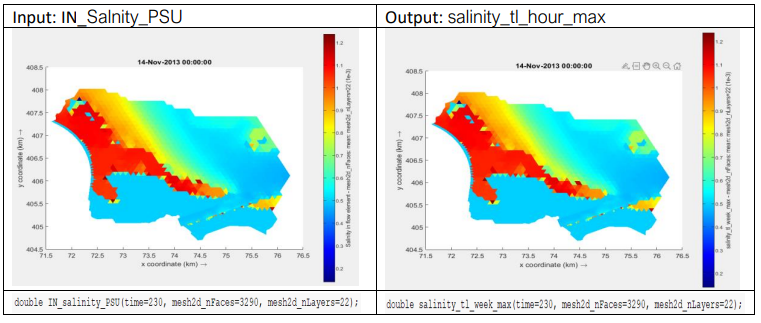
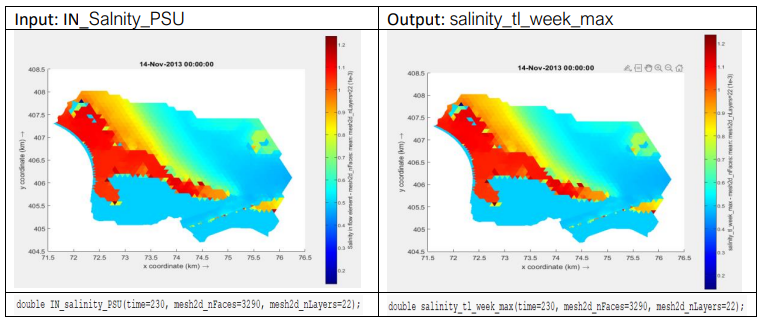
Small grammar and image corrections
Small grammar and image corrections

diff --git a/docs/manual/input.md b/docs/manual/input.md
@@ -1,6 +1,6 @@
 # Structure of the model input file and functionality
 
-D-Eco Impact is steered through a YAML input file. This input file informs the model which data to use , what ecological knowledge rules to apply and where to write the output data. 
+D-Eco Impact is steered through a YAML input file. This input file informs the model which data to use, what ecological knowledge rules to apply and where to write the output data. 
 The easiest way to edit these YAML files is by using [Notepad++](https://notepad-plus-plus.org/downloads/). When starting with your first application with D-Eco Impact, make use of earlier models to setup your YAML input file and edit from there. When running the YAML file with D-Eco Impact, the model will inform you if there are inconsistencies in the file provided. 
 
 ## Importing and exporting data
@@ -42,7 +42,7 @@ output-data:
 ```
 
 ```
-#EXAMPLE  : Reading and writing a example model of the Volkerak-Zoommeer
+#EXAMPLE  : Reading and writing an example model of the Volkerak-Zoommeer
 version: 0.1.5
 
 # Mapping: mesh2d_sa1              : Salinity (PSU)
@@ -85,7 +85,7 @@ output-data:
 
 ```
 
-The output of the following functionalities have been shown for a section of the Lake Volkerak 3D hydrodynamic model in the Netherlands. This hydrodynamic model output contains 6 years of data (2011 – 2016), with a timestep of 10 days. The 3D hydrodynamic model has been setup with 22 vertical layers and 3290 horizontal flexible mesh grid cells.
+The output of the following functionalities has been shown for a section of the Lake Volkerak 3D hydrodynamic model in the Netherlands. This hydrodynamic model output contains 6 years of data (2011 – 2016), with a timestep of 10 days. The 3D hydrodynamic model has been setup with 22 vertical layers and 3290 horizontal flexible mesh grid cells.
 
 
 ![Volkerak](../assets/images/3_volkerak_result.png "Spatial location of the Lake Volkerak hydrodynamic model output that has been used to show the effect of each function.")
@@ -113,12 +113,12 @@ The output of the following functionalities have been shown for a section of the
       output_variable: <one_output_variable_name>
 ```
 
-The multiply rule allows for multiplication of variables. This could be used for unit transformation (e.g. salinity to chloride) or scenario creation (e.g. waterlevel 80% of existing value). The rule operates on all cells both 3D (in horizontal as vertical) as in the time axes. The same dimensions are returned at the output variable. The rule needs to be applied to an existing variable. A new variable is created when the rule is executed.
+The multiply rule allows for multiplication of variables. This could be used for unit transformation (e.g., salinity to chloride) or scenario creation (e.g., water level 80% of existing value). The rule operates on all cells both 3D (in horizontal as vertical) as in the time axes. The same dimensions are returned at the output variable. The rule needs to be applied to an existing variable. A new variable is created when the rule is executed.
 
 When using the multiply rule with a start and end date (or multiple start and end dates) all periods that are not covered will be set to NaN. In this way the multiply rule can also be used as a filter in time. NaNs are ignored by any further calculations (for example the time_aggregation_rule).
 
 ```
-#EXAMPLE  : Salinity (psu) to chloride (mg/l) in an freshwater environment.
+#EXAMPLE: Salinity (psu) to chloride (mg/l) in a freshwater environment.
 - multiply_rule:
       name: Salinity to chloride
       description: Converts salinity (psu) to chloride (CL- mg/l) for fresh water environments
@@ -153,7 +153,7 @@ FORMAT
 
 ```
 
-The layer filter rule allows for the extraction of a layer from 3D variables. This could be used for extracting the top layer or bottom layer (e.g. from a mutli layered model result). The rule operates on all layers in a 3D variable (in the vertical) as in the time axes and returns a 2D result with the time axes intact. The rule needs to be applied to an existing 3D variable. A new 2D variable is created when the rule is executed.
+The layer filter rule allows for the extraction of a layer from 3D variables. This could be used for extracting the top layer or bottom layer (e.g., from a multi layered model result). The rule operates on all layers in a 3D variable (in the vertical) as in the time axes and returns a 2D result with the time axes intact. The rule needs to be applied to an existing 3D variable. A new 2D variable is created when the rule is executed.
 
 ```
 #EXAMPLE  : Extracts the chloride concentration at surface.
@@ -182,15 +182,15 @@ FORMAT
       output_variable: <one_output_variable_name>
 ```
 
-The time aggregation rule rule allows for calculating a statistical summary over the time axes of 3D and 2D variables. This could be used for calculating the maximum value over a year (e.g. for water level) or the minimum value over a month (e.g. oxygen concentration). The rule operates both on  3D variables and 2D variables as long as they have a time axes and returns a 3D or 2D result depending on input with the statistic calculated for a new time axis (e.g, year or month). 
-Operations available: Add, Average, Median, Min, Max, period statistics, Stdev and Percentile(n). When using percentile, add a number for the nth percentile with brackets like this: percentile(10). Stdev calculates the standard- deviation over te time period. Under period statistics are explained further in the text.
+The time aggregation rule allows for calculating a statistical summary over the time axes of 3D and 2D variables. This could be used for calculating the maximum value over a year (e.g., for water level) or the minimum value over a month (e.g., oxygen concentration). The rule operates both on 3D variables and 2D variables as long as they have a time axis and returns a 3D or 2D result depending on input with the statistic calculated for a new time axis (e.g., year or month). 
+Operations available: Add, Average, Median, Min, Max, period statistics, Stdev and Percentile(n). When using percentile, add a number for the nth percentile with brackets like this: percentile(10). Stdev calculates the standard- deviation over the time period. Under period statistics are explained further in the text.
 
 Time aggregation available: Year, Month
 
 The rule needs to be applied to an existing 2D/3D variable with time axis. A new 2D/3D variable with new time axis is created when the rule is executed. With a year timestep the result is written to the last day of the year, with a month timestep the result is written to the last day of the month per year.
 
 ```
-#EXAMPLE  : Calculate the maximum waterlevel in a year.
+#EXAMPLE  : Calculate the maximum water level in a year.
   - time_aggregation_rule:
       name: Maximum water level year
       description: Get maximum water level in a year
@@ -204,14 +204,14 @@ The rule needs to be applied to an existing 2D/3D variable with time axis. A new
 
 Period statistics: Time aggregation rule with COUNT_PERIODS, AVG_DURATION_PERIODS, MIN_DURATION_PERIODS and MAX_DURATION_PERIODS
 
-When the operation type period statistics is used, the user needs to make sure that the input data is always consisting of only 1 and 0. If there is no such layer, the user can make a combination of for example the classification rule together with the time aggregation rule. For example, waterdepth can be used to check whether the cells are dry or not (this can be done with a classification rule) and with the COUNT_PERIODS operation type in the time aggregation rule the amount of consecutive periods within a year or month can be calculated (nr). AVG_DURATION_PERIODS, MIN_DURATION_PERIODS and MAX_DURATION_PERIODS take the respective statistic of the duration for those consecutive periods (duration).
+When the operation type period statistics is used, the user needs to make sure that the input data is always consisting of only 1 and 0. If there is no such layer, the user can make a combination of for example the classification rule together with the time aggregation rule. For example, water depth can be used to check whether the cells are dry or not (this can be done with a classification rule) and with the COUNT_PERIODS operation type in the time aggregation rule the number of consecutive periods within a year or month can be calculated (nr). AVG_DURATION_PERIODS, MIN_DURATION_PERIODS and MAX_DURATION_PERIODS take the respective statistic of the duration for those consecutive periods (duration).
 
 
 
 ```
 #EXAMPLE:
 
-Calculate the amount of periods of dry time monthly
+Calculate the number of consecutive periods of dry time monthly
     - classification_rule:
         name: Classify dry time
         description: Classify to 0 and 1 the dry time
@@ -247,7 +247,7 @@ FORMAT
       output_variable: <one_output_variable_name>
 ```
 
-The step function rule performs stepwise classification on the provided values of 3D and 2D variables time dependent arrays. This could be used for translating variables into classes (e.g. salinity classes based on salinity) or indicate suitable/unsuitable ranges (e.g. checking whether the waterlevel falls between the maximum and minimum water level policy criteria). The rule operates both on  3D variables and 2D variables, independent of the time axes, and returns a binominal or classes in a 3D or 2D result, either with time axis, depending on input. 
+The step function rule performs stepwise classification on the provided values of 3D and 2D variables time dependent arrays. This could be used for translating variables into classes (e.g., salinity classes based on salinity) or indicate suitable/unsuitable ranges (e.g., checking whether the water level falls between the maximum and minimum water level policy criteria). The rule operates both on 3D variables and 2D variables, independent of the time axes, and returns a binominal or classes in a 3D or 2D result, either with time axis, depending on input. 
 
 The rule needs to be applied to an existing 2D/3D variable with or without time axis. A new 2D/3D variable with or without time axis is created when the rule is executed.
 
@@ -289,9 +289,9 @@ The rule needs to be applied to an existing 2D/3D variable with or without time 
       output_variable : water_level_policy
 ```
 
-![Visualisation of input Step function rule 2](../assets/images/3_input_step_2.png "Water level (in m NAP) is translated in a False (0) or True (1) categorie by comparing it with a boundary policy based on the shown relationship. The boundary is that the water level is not allowed to be lower than -0.10 m NAP and higher than 0.15 m NAP.")
+![Visualisation of input Step function rule 2](../assets/images/3_input_step_2.png "Water level (in m NAP) is translated in a False (0) or True (1) category by comparing it with a boundary policy based on the shown relationship. The boundary is that the water level is not allowed to be lower than -0.10 m NAP and higher than 0.15 m NAP.")
 
-![Result Step function rule 2](../assets/images/3_result_step_2.png "Water level (in m NAP, left-hand side) is translated in a False (0) or True (1) categorie by comparing it with a boundary policy (right-hand side) while maintaining the time and face dimension (layer dimension is not present in this example, but would be maintained). The boundary is that the water level is not allowed to be lower than -0.10 m NAP and higher than 0.15 m NAP.")
+![Result Step function rule 2](../assets/images/3_result_step_2.png "Water level (in m NAP, left-hand side) is translated in a False (0) or True (1) category by comparing it with a boundary policy (right-hand side) while maintaining the time and face dimension (layer dimension is not present in this example, but would be maintained). The boundary is that the water level is not allowed to be lower than -0.10 m NAP and higher than 0.15 m NAP.")
 
 
 ### Response curve rule
@@ -309,7 +309,7 @@ FORMAT
       output_variable: <one_output_variable_name>
 ```
 
-The response curve rule performs a linear interpolation over the provided values of the variables of 3D and 2D variables time dependent arrays. This could be used for a fuzzy logic translation  of variables into ecological responses to these variables (e.g. suitability for aquatic plants based on light availability). The rule operates both on  3D variables and 2D variables, independent of the time axes, and returns decimal or fractional values  in a 3D or 2D result, either with time axis, depending on input. 
+The response curve rule performs a linear interpolation over the provided values of the variables of 3D and 2D variables time dependent arrays. This could be used for a fuzzy logic translation of variables into ecological responses to these variables (e.g., suitability for aquatic plants based on light availability). The rule operates both on 3D variables and 2D variables, independent of the time axes, and returns decimal or fractional values in a 3D or 2D result, either with time axis, depending on input. 
 
 The rule needs to be applied to an existing 2D/3D variable with or without time axis. A new 2D/3D variable with or without time axis is created when the rule is executed.
 
@@ -351,7 +351,7 @@ FORMAT
       output_variable: <one_output_variable_name>
 ```
 
-The combine results rule combines the output of two or more variables to one output variable. The way this data is combined depends on the operation chosen. This could be used for adding mutual exclusive results (e.g. habitat suitability based on flow velocity and water depth) or asses difference between results (e.g. waterlevel and bathymetry to get the water depth).The rule operates one or multiple  3D variables or 2D variables, independent of the time axes, as long as these all have the same dimensions and returns a single 3D or 2D result, either with time axis, depending on input. 
+The combine results rule combines the output of two or more variables to one output variable. The way this data is combined depends on the operation chosen. This could be used for adding mutual exclusive results (e.g., habitat suitability based on flow velocity and water depth) or asses difference between results (e.g., waterlevel and bathymetry to get the water depth).The rule operates one or multiple  3D variables or 2D variables, independent of the time axes, as long as these all have the same dimensions and returns a single 3D or 2D result, either with time axis, depending on input. 
 
 Operations available: Add, Subtract, Multiply, Average, Median, Min and Max
 
@@ -359,7 +359,7 @@ The rule needs to be applied to an existing 2D/3D variables with or without time
 
 ```
 #EXAMPLE  : Calculate bathymetry over time 
-# This is just an example, there is a variable bedlevel without time (mesh2d_flowelem_bl)
+# This is just an example, there is a variable bed level without time (mesh2d_flowelem_bl)
 
 - combine_results_rule:
       name: Calculate bathymetry
@@ -461,8 +461,8 @@ FORMAT
       input_variables: [<list with_input_variable_names>]
       output_variable: <one_output_variable_name>
 ```
-The classification rule allows for the classification based on the range of one or multiple input vairables. The value range can be indicated in muliple ways.
-This rule can be used for indicating suitability (0 or 1) or specify categories (1,2,3 etc). The rule will start with the last given criteria range row and work upwards,hence overwriting is possible. Currently there is no check whether possible ranges have been missed or are overlapping.
+The classification rule allows for the classification based on the range of one or multiple input vairables. The value range can be indicated in multiple ways.
+This rule can be used for indicating suitability (0 or 1) or specify categories (1,2,3 etc). The rule will start with the last given criteria range row and work upwards, hence overwriting is possible. Currently there is no check whether possible ranges have been missed or are overlapping.
 
 The rule needs to be applied to an existing 2D/3D variables with or without time axis. A new 2D/3D variable with or without time axis is created when the rule is executed.
 
@@ -483,10 +483,10 @@ Criteria ranges available are:
       description: Derive the classification for aquatic plants based on water depth, flow velocity and chloride levels
       criteria_table: 
         - ["output", "MIN_water_depth_mNAP", "MAX_flow_velocity", "MAX_chloride"]
-        - [     1  ,               "<0.10" ,                "-" ,            "-"] # to dry
-        - [     2  ,                ">4.0" ,                "-" ,            "-"] # to deep
-        - [     3  ,                   "-" ,                "-" ,         ">400"] # to salty
-        - [     4  ,                   "-" ,             ">1.5" ,            "-"] # to fast flowing
+        - [     1  ,               "<0.10" ,                "-" ,            "-"] # too dry
+        - [     2  ,                ">4.0" ,                "-" ,            "-"] # too deep
+        - [     3  ,                   "-" ,                "-" ,         ">400"] # too salty
+        - [     4  ,                   "-" ,             ">1.5" ,            "-"] # too fast flowing
         - [     5  ,            "0.10:4.0" ,          "0.0:1.5" ,       "0:400"] # perfect for aquatic plants
       input_variables: ["MIN_water_depth_mNAP", "MAX_flow_velocity", "MAX_chloride"]
       output_variable: aquatic_plant_classes
@@ -523,7 +523,7 @@ FORMAT
       output_variable: <one_output_variable_name>
 ```
 
-The rolling statistic rule allows for a rolling statistic based on the choicen operation and the time period over which the statistic should be repeated. The calculated statistic will be written to each last timestep that falls within the period.
+The rolling statistic rule allows for a rolling statistic based on the chosen operation and the time period over which the statistic should be repeated. The calculated statistic will be written to each last timestep that falls within the period.
 Operations available: Add, Average, Median, Min, Max, count_periods, Stdev and Percentile(n). When using percentile, add a number for the nth percentile with brackets like this: percentile(10).
 
 Time scales available: hour, day
@@ -562,7 +562,7 @@ In the example shown above the stripe indicates the time period covered (4 times
       output_variable: salinity_tl_week_max
 ```
 
-![Result Rolling statistic rule](../assets/images/3_result_rolling_statistic.png "Salinity(in PSU, left-hand) is translated to an 12.5 hourly statistic (in PSU, right-hand) while maintaining the time and face dimension (layer dimension is not present in this example, but would be maintained). ")
+![Result Rolling statistic rule](../assets/images/3_result_rolling_statistic.png "Salinity(in PSU, left-hand) is translated to a 12.5 hourly statistic (in PSU, right-hand) while maintaining the time and face dimension (layer dimension is not present in this example, but would be maintained). ")
 
 ![Result Rolling statistic rule 2](../assets/images/3_result_rolling_statistic_2.png "Salinity(in PSU, left-hand) is translated to an weekly statistic (in PSU, right-hand) while maintaining the time and face dimension (layer dimension is not present in this example, but would be maintained). ")
 
@@ -613,11 +613,11 @@ Here is the original rule:
       description: classification for aquatic plants based on water depth, flow velocity and chloride.
       criteria_table: 
         - ["output", "MIN_water_depth_mNAP", "MAX_flow_velocity", "MAX_chloride"]
-        - [     1  ,               "<0.10" ,                "-" ,               "-"] # to dry
-        - [     2  ,                 ">4.0" ,                "-" ,               "-"] # to deep
-        - [     3  ,                       "-" ,                "-" ,        ">400"] # to salty
-        - [     4  ,                       "-" ,          ">1.5" ,               "-"] # to fast flowing
-        - [     5  ,          "0.10:4.0" ,      "0.0:1.5" ,       "0:400"] # perfect for aquatic plants
+        - [     1  ,               "<0.10" ,                "-" ,            "-"] # too dry
+        - [     2  ,                ">4.0" ,                "-" ,            "-"] # too deep
+        - [     3  ,                   "-" ,                "-" ,         ">400"] # too salty
+        - [     4  ,                   "-" ,             ">1.5" ,            "-"] # too fast flowing
+        - [     5  ,            "0.10:4.0" ,          "0.0:1.5" ,        "0:400"] # perfect for aquatic plants
 ```
 
 And this is the rule while making using of an inclusion from another file:
@@ -635,9 +635,9 @@ And this is the rule while making using of an inclusion from another file:
 And this is the included file from tables/aquatic_plant_criteria.yaml:
 ```
         - ["output", "MIN_water_depth_mNAP", "MAX_flow_velocity", "MAX_chloride"]
-        - [     1  ,               "<0.10" ,                "-" ,               "-"] # to dry
-        - [     2  ,                 ">4.0" ,                "-" ,               "-"] # to deep
-        - [     3  ,                       "-" ,                "-" ,        ">400"] # to salty
-        - [     4  ,                       "-" ,          ">1.5" ,               "-"] # to fast flowing
-        - [     5  ,          "0.10:4.0" ,      "0.0:1.5" ,       "0:400"] # perfect for aquatic plants
+        - [     1  ,               "<0.10" ,                "-" ,            "-"] # too dry
+        - [     2  ,                ">4.0" ,                "-" ,            "-"] # too deep
+        - [     3  ,                   "-" ,                "-" ,         ">400"] # too salty
+        - [     4  ,                   "-" ,             ">1.5" ,            "-"] # too fast flowing
+        - [     5  ,            "0.10:4.0" ,          "0.0:1.5" ,        "0:400"] # perfect for aquatic plants
 ```
